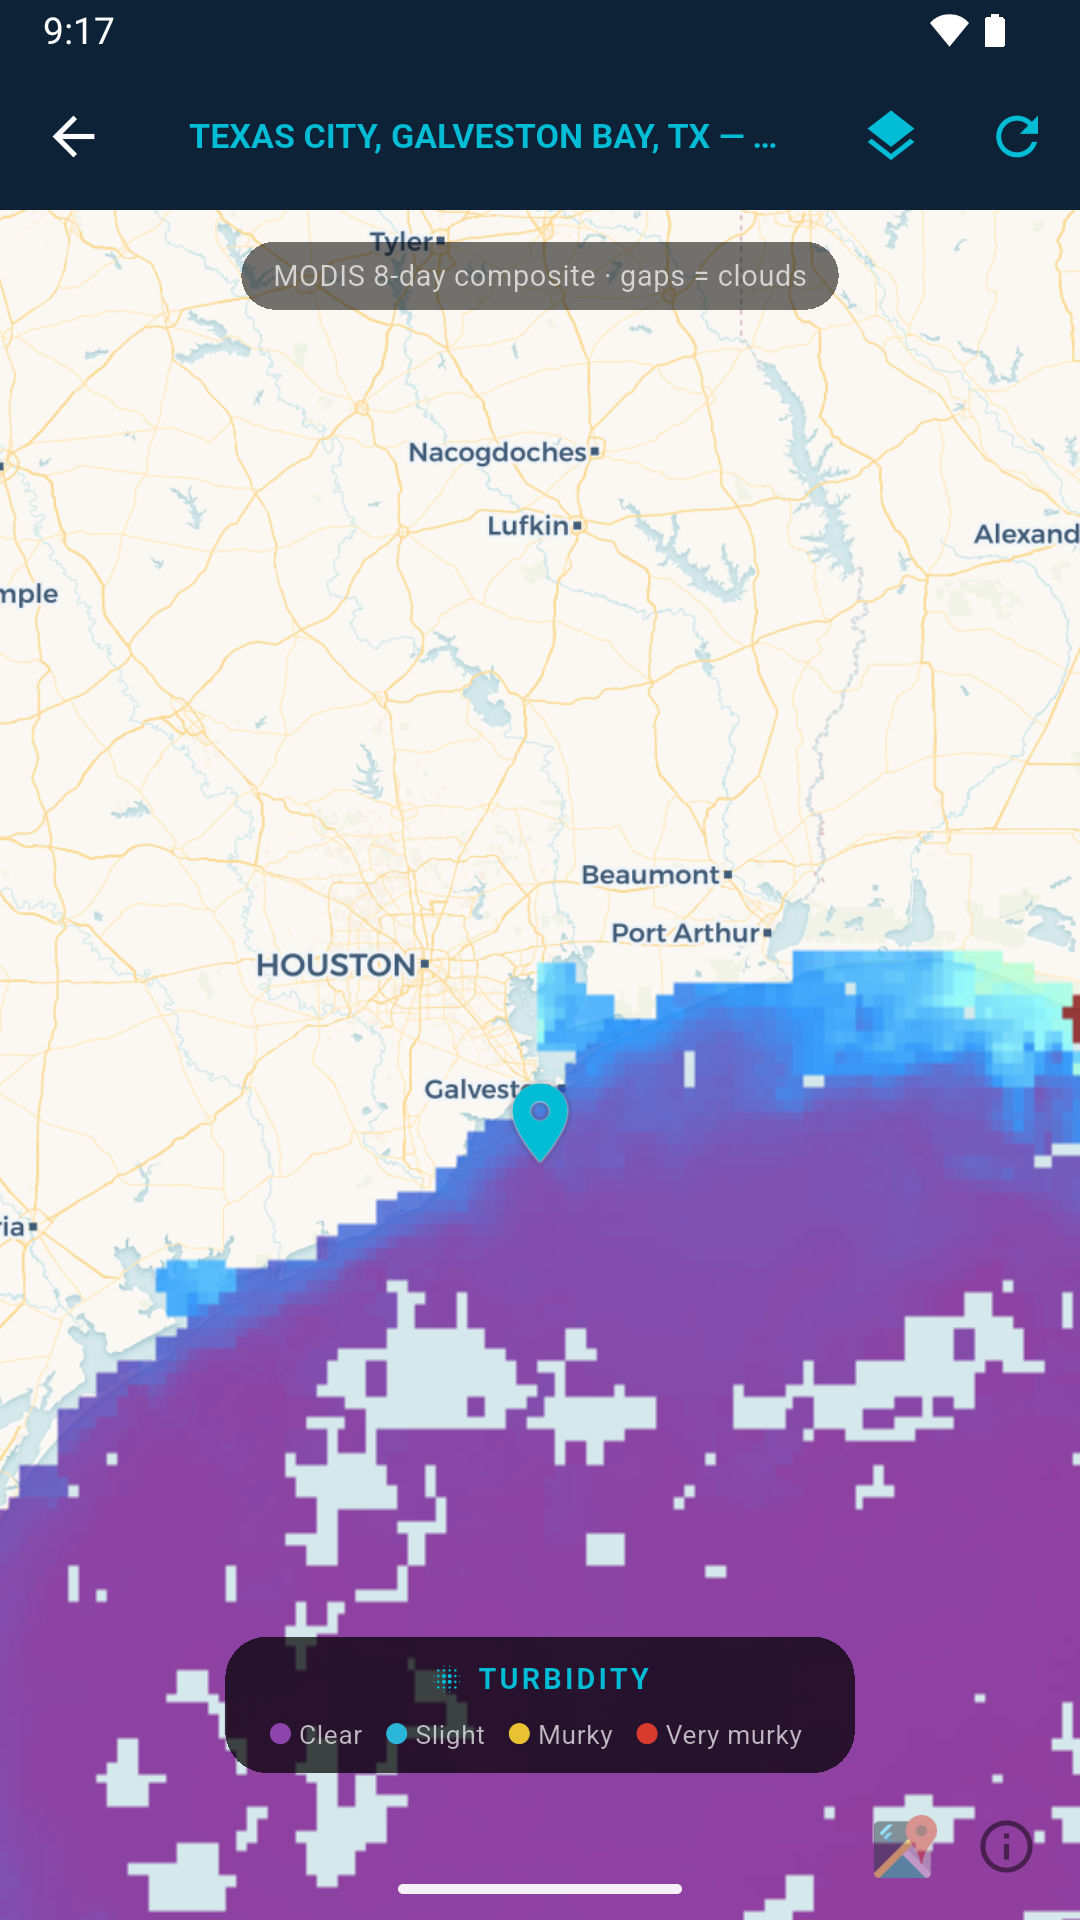
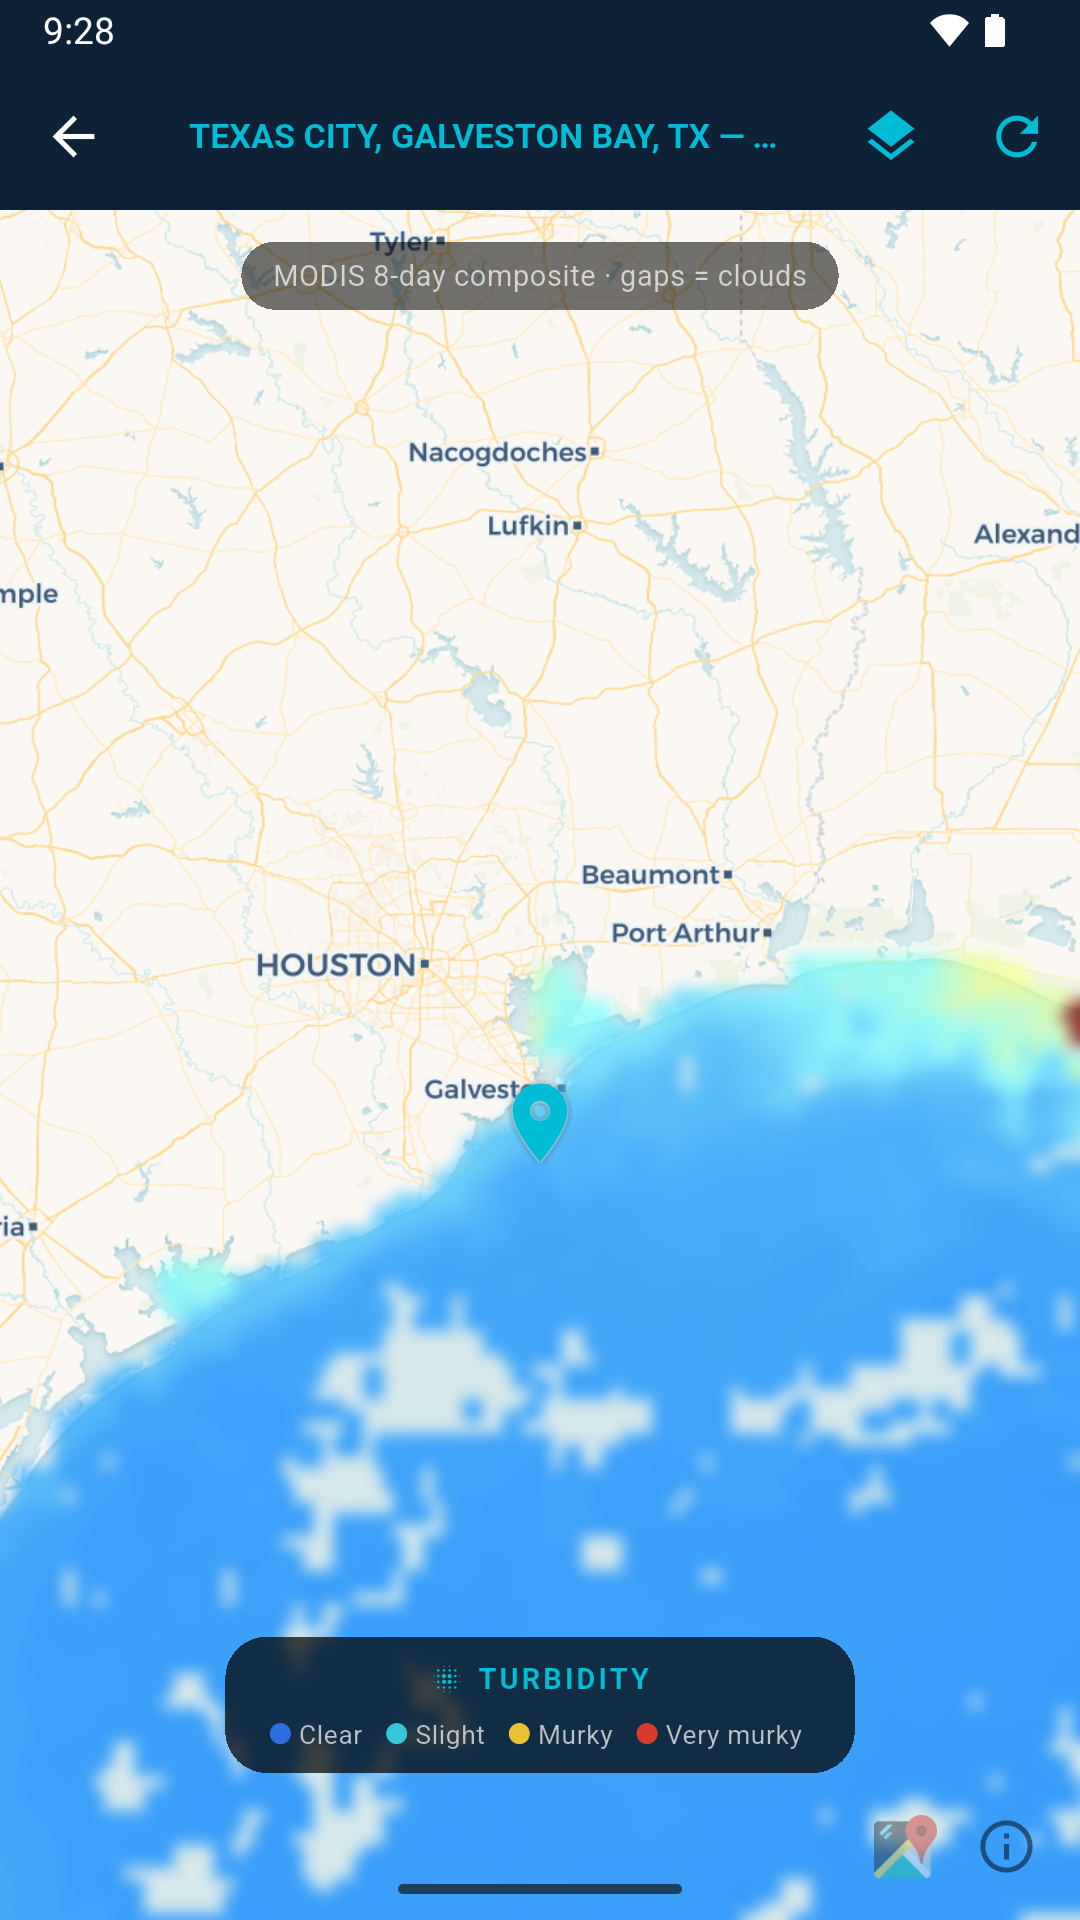
fix: turbidity layer — blue = clear, smooth 4km grid
- Shift the Rainbow2 colorBar floor below the Kd490 data range so the
  clearest water renders blue (purple-as-clear read backwards); legend
  chips follow (blue Clear, cyan Slight).
- Render the PNG near the MODIS 4km native cell size and gaussian-blur
  the overlay on screen (decal tile mode), melting the hard data-cell
  squares into a smooth wash.

diff --git a/tides_flutter/lib/screens/water_temp_map_screen.dart b/tides_flutter/lib/screens/water_temp_map_screen.dart
@@ -1,4 +1,5 @@
 import 'dart:async';
+import 'dart:ui' as ui;
 
 import 'package:flutter/material.dart';
 import 'package:flutter_riverpod/flutter_riverpod.dart';
@@ -34,6 +35,9 @@ class _LayerDef {
   final String variable;
   final String palette;
   final String ageNote; // how fresh "(last)" actually is
+  // Coarse grids (4km MODIS) render as visible blocks: request the PNG near
+  // the data's native cell size and gaussian-blur it on screen instead.
+  final double? smoothCellDeg;
   const _LayerDef({
     required this.label,
     required this.icon,
@@ -41,6 +45,7 @@ class _LayerDef {
     required this.variable,
     required this.palette,
     required this.ageNote,
+    this.smoothCellDeg,
   });
 }
 
@@ -68,6 +73,7 @@ const _kLayers = {
     variable: 'k490',
     palette: 'Rainbow2',
     ageNote: 'MODIS 8-day composite · gaps = clouds',
+    smoothCellDeg: 1 / 24, // MODIS Kd490 grid is ~4km (0.0417°)
   ),
 };
 
@@ -129,7 +135,10 @@ class _WaterTempMapScreenState extends ConsumerState<WaterTempMapScreen> {
   (double, double) _rangeFor(_Layer l) => switch (l) {
         _Layer.sst => _sstRange(),
         _Layer.anomaly => (-5, 5),
-        _Layer.turbidity => (0, 2),
+        // Min sits below the data floor (Kd490 ≥ ~0.02) so Rainbow2's purple
+        // band falls out of range and the clearest water renders BLUE — blue
+        // = clear reads naturally; purple = clear confused people.
+        _Layer.turbidity => (-0.5, 2),
       };
 
   // Re-fetch when the user pans/zooms so the overlay follows the map. The
@@ -182,10 +191,15 @@ class _WaterTempMapScreenState extends ConsumerState<WaterTempMapScreen> {
     final latA = latAscending ? b.south : b.north;
     final latB = latAscending ? b.north : b.south;
     // PNG aspect must match the bounds it's pinned on or the data shifts.
-    const w = 512;
+    // For coarse grids, ~1 pixel per data cell: ERDDAP draws cells as hard
+    // blocks, so a near-native render + the on-screen blur upscales into a
+    // smooth gradient instead of chunky 4km squares.
+    final w = def.smoothCellDeg != null
+        ? ((b.east - b.west) / def.smoothCellDeg!).round().clamp(96, 512)
+        : 512;
     final h = ((b.north - b.south) / (b.east - b.west) * w)
         .round()
-        .clamp(128, 768);
+        .clamp(64, 768);
     return 'https://coastwatch.pfeg.noaa.gov/erddap/griddap/'
         '${def.dataset}.transparentPng'
         '?${def.variable}%5B(last)%5D%5B($latA):($latB)%5D%5B(${b.west}):(${b.east})%5D'
@@ -328,15 +342,18 @@ class _WaterTempMapScreenState extends ConsumerState<WaterTempMapScreen> {
                 panBuffer: 2,
               ),
               if (_overlayUrl != null && _overlayBounds != null)
-                OverlayImageLayer(
-                  overlayImages: [
-                    OverlayImage(
-                      bounds: _overlayBounds!,
-                      imageProvider: NetworkImage(_overlayUrl!),
-                      // Basemap coastline/labels read through the wash.
-                      opacity: 0.75,
-                    ),
-                  ],
+                _smoothed(
+                  def,
+                  OverlayImageLayer(
+                    overlayImages: [
+                      OverlayImage(
+                        bounds: _overlayBounds!,
+                        imageProvider: NetworkImage(_overlayUrl!),
+                        // Basemap coastline/labels read through the wash.
+                        opacity: 0.75,
+                      ),
+                    ],
+                  ),
                 ),
               MarkerLayer(markers: [
                 Marker(
@@ -441,6 +458,16 @@ class _WaterTempMapScreenState extends ConsumerState<WaterTempMapScreen> {
     );
   }
 
+  // Gaussian-blur coarse-grid layers so 4km cells melt into a smooth wash;
+  // decal tile mode keeps the blur from smearing past transparent edges.
+  Widget _smoothed(_LayerDef def, Widget child) => def.smoothCellDeg == null
+      ? child
+      : ImageFiltered(
+          imageFilter: ui.ImageFilter.blur(
+              sigmaX: 3, sigmaY: 3, tileMode: ui.TileMode.decal),
+          child: child,
+        );
+
   // ── Legend ──────────────────────────────────────────────────────────────────
   //
   // Chip colors approximate the ERDDAP palettes (Rainbow2 cold→hot,
@@ -468,8 +495,8 @@ class _WaterTempMapScreenState extends ConsumerState<WaterTempMapScreen> {
         ];
       case _Layer.turbidity:
         return [
-          (const Color(0xFF8E44AD), 'Clear'),
-          (const Color(0xFF29B6D8), 'Slight'),
+          (const Color(0xFF2D6FE0), 'Clear'),
+          (const Color(0xFF35C6DC), 'Slight'),
           (const Color(0xFFE8C233), 'Murky'),
           (const Color(0xFFD83A2E), 'Very murky'),
         ];
